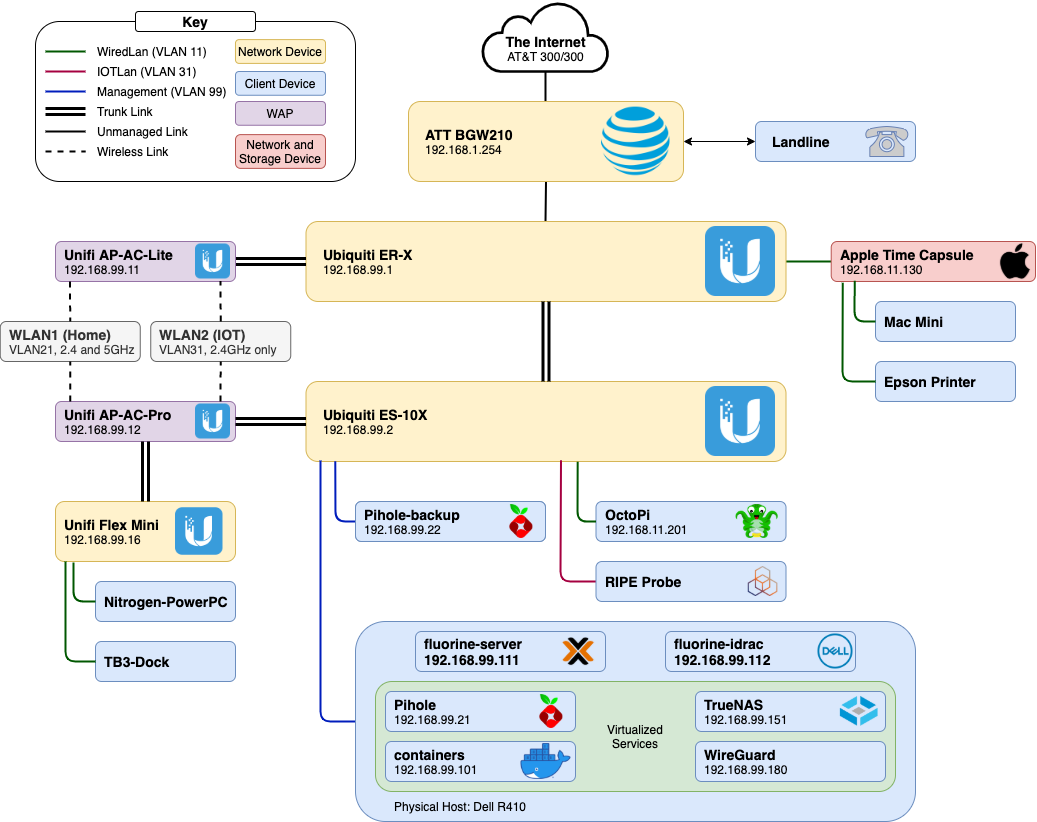
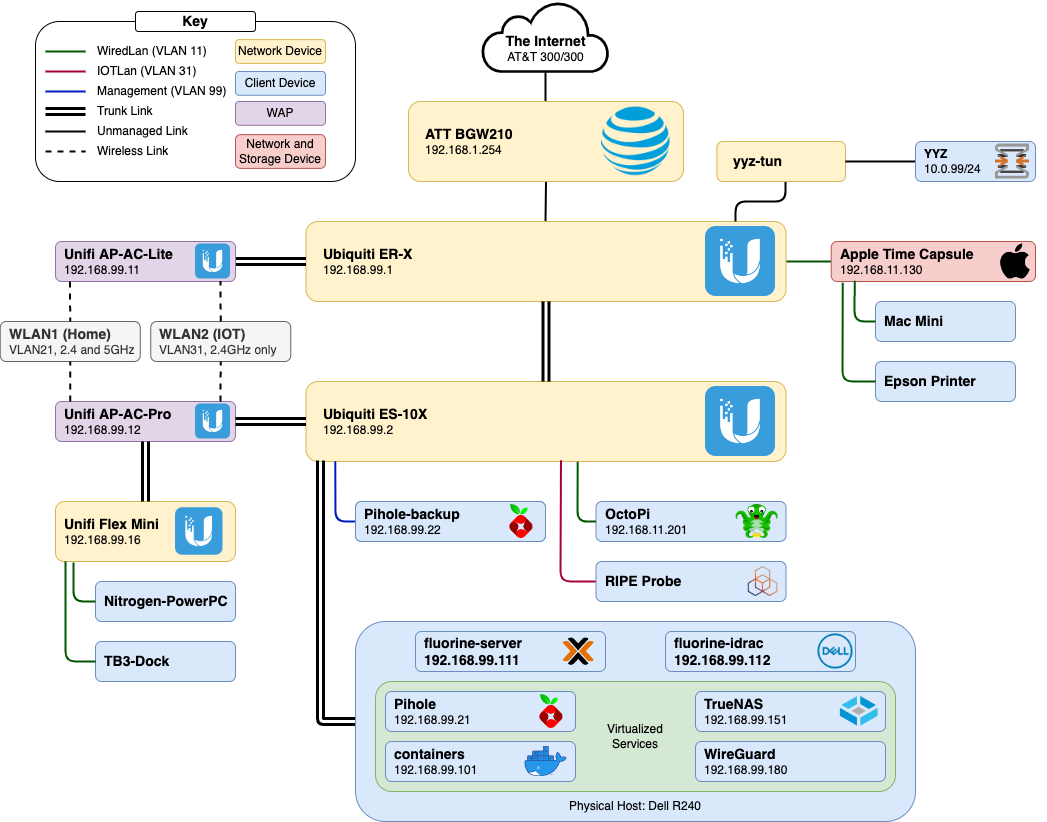
Update homelab page

diff --git a/src/projects/homelab/index.md b/src/projects/homelab/index.md
@@ -4,7 +4,7 @@ slug: projects/homelab
 tagline: There's no place like 127.0.0.1
 secondaryDesc: Learning how the Internet works by building an enterprise-grade server stack, at home
 featuredImage: ./homelab-featured.jpg
-date: 2021-01
+date: 2022-04
 ---
 
 I've always believed that the best way to learn how to do something is by just throwing yourself into it and doing it yourself.
@@ -18,63 +18,72 @@ Not that I've ever done that, of course.
 
 Was the ISP-provided router *probably* enough?
 Yes.
-Is it way more fun to have a fully-fledged wired network with multiple WAPs?
+Is it way more fun to have a fully-fledged segmented wired network with multiple WAPs?
 Oh yeah. 
 
-![Network map](network-diagram.png)
+![Network map](HomeNetworkDiagram.png)
 
 I went with Ubiquiti gear for this network since they offer inexpensive commercial-grade equipment in many shapes and sizes.
-Originally, I was using old Cisco and Dell switches, but after I came to terms with the fact that no, I'll never need 48 PoE ports and full L3 routing, I simplified and condensed to compact routers and switches from Ubiquiti.
+Originally, I was using old Cisco and Dell switches, but after I came to terms with the fact that no, I'll never need 48 PoE ports and full L3 switching, I simplified and condensed to compact routers and switches from Ubiquiti.
 The power bill thanked me for this move; that Cisco switch was guzzling over 100W even at idle. 
 
 While I was refactoring the network, I decided that I really needed a bunch of VLANS.
 I don't actually think that they're necessary here, nor make my network more secure or less busy; I really only added them for the fun of it, to see what I could do with them.
 
-There are four VLANS: management, wired devices, wireless devices, and IoT. 
+There are four VLANs: management, wired devices, wireless devices, and IoT. 
 The IoT VLAN is completely isolated except for a few holes to allow for MQTT and Sonos devices to talk to the server.
 The rest just segregate the network nicely, and for the most part, are transparent to whatever I'm working on. 
 
 [Pi-hole](https://pi-hole.net/) is used as a network-wide adblocker and local DNS service. 
 The ER-X gently suggests via DHCP and firewall rules that devices should use Pi-hole as their main DNS, so most devices connected to the network have some level of ad blocking.
+There is one physical Pi (the OG Model B) as a backup, but I have the main instance virtualised on my main server.
 
 The [Ripe Atlas](https://atlas.ripe.net/) is a tiny little device that RIPE NCC uses to make worldwide network measurements. 
-Besides being an easy way to contribute to the health of Internet, it also acts as a canary, since the NCC will send you an email when the probe, and therefore your internet, goes down.
+Besides being an easy way to contribute to the health of Internet, it also acts as a canary.
+The NCC will send you an email when the probe, and therefore your internet, goes down.
+There's usually not much you can actually do when the internet goes down except from get put on hold by your ISP, but it's still nice to know. 
 You can apply to get one for free on their [site](https://atlas.ripe.net/get-involved/become-a-host/).
 
-## lithium-server.lan ##
+## fluorine-server ##
 
-The pièce de résistance of the entire network, a 2009 Mac Mini that was underpowered even when it was brand new. 
-Perfect for a headless install of Ubuntu Server and a handful of applications, though!
+![Server service map](fluorine-server.png)
 
-![Server service map](server-diagram.png)
+Virtualise all the things!
+Instead of running my services on bare metal, I wanted to play around with VMs and hypervisors a bit, so I installed [Proxmox VE](https://www.proxmox.com/en/proxmox-ve). 
+There are four main VMs: one for PiHole, one for a Wireguard VPN server, one for Docker, and one for TrueNAS. 
+All of them are running Ubuntu 20.04 LTS, except for [TrueNAS](https://www.truenas.com/) which is an OS specifically for managing drives in a NAS. 
 
-[Docker](https://www.docker.com/) (and specifically [docker-compose](https://docs.docker.com/compose/)) manages most of the services, resulting in easy configuration, management, updating, etc.
-All user data is stored off of the container and backed up using [BorgBackup](https://www.borgbackup.org/), meaning that very little actually needs to be backed up, as the containers are disposable.
+The physical host is a Dell PowerEdge R240 that I got for quite a nice price, and can handle my rather light demands with ease. 
+I have an Intel datacenter-grade SSD for VM storage, and a pair of 4TB drives in RAID1 that TrueNAS handles for mass storage. 
 
-The [Unifi Controller](https://hub.docker.com/r/linuxserver/unifi-controller) keeps an eye on the WAPs and allows for quick and easy configuration.
-Unfortunately, the routing and switching gear is (mostly) Edge-line equipment, so this only manages the wireless side. 
-The router and the switch can only be configured via their own web-based GUI or CLI.
+While I have dedicated VMs for a few services, I use [Docker](https://www.docker.com/) (and specifically [docker-compose](https://docs.docker.com/compose/)) for managing most of the smaller services, resulting in easy configuration, management, updating, etc.
+By storing all the configuration and user data outside of the container, I can easily back up and restore all containers via [BorgBackup](https://www.borgbackup.org/).
 
-[HomeAssistant](https://www.home-assistant.io/) is used for a few smarthome-type things.
-The main automation is to have my WiZ smartlights change color temperature though the day using [adaptive-lighting](https://github.com/basnijholt/adaptive-lighting).
-[Mosquitto](https://hub.docker.com/_/eclipse-mosquitto) is my MQTT broker of choice, communicating with a smart switch and my [weatherstation](../weatherstation/).
+All of the sensor data from Home Assistant and my [weatherstation](../weatherstation) gets stored temporarily in a [MariaDB](https://mariadb.org/) instance, but for long term storage, I have a [InfluxDB](https://www.influxdata.com/) container as a single source for all data logging I can think of. 
+To make everything more palatable, I use [Grafana](https://grafana.com/) to visualize the data, along with data from [Telegraf](https://www.influxdata.com/time-series-platform/telegraf/). 
 
-I use [JellyFin](https://jellyfin.org/) for the occasional video streaming need, and [node-sonos-http-api](https://github.com/jishi/node-sonos-http-api) for the backend to my [Sonos remote](https://github.com/eosti/sonos-remote).
+Finally, I am using [Traefik](https://traefik.io/traefik/) to tie it all together though a reverse proxy.
+Everything is secured through [Authentik](https://goauthentik.io/), an all-in-one identity provider. 
 
-Finally, I am using [Traefik](https://traefik.io/traefik/) to tie it all together though a remote proxy.
-Originally I could just remember the port numbers for each service, but that gets hard once you have more than a few services all at once.
-Many hours of pain and suffering later, each frequently used service has a sub-domain that is much easier to use.
-Theoretically, Traefik is essentially plug-and-play, but HomeAssistant and Unifi both have some networking and encryption requirements that confuse Traefik, so it took a while to get all sorted out.
+Initial setup and large-scale management is provided by [Ansible](https://www.ansible.com/) and a number of playbooks that I've developed in the process of bringing this all up. 
+Why do things manually when you can spend three times as long to automate it?
 
-## The latest and the Greatest ##
+## Networking, Part 2 ##
 
-Well, not really. 
+But wait, there's more!
 
-I recently got my hands on a few G11 PowerEdge servers and have been setting up a development environment so that I don't have to test everything on live. 
-They're old (~2010) and all together draw 750W *at idle* but fantastic for learning virtualization and other server infrastructure. 
+As I bounce around the continent during university, I want a reliable connection back to my main server. 
+Wherever else I reside, I use a tiny little Dell 7050 Micro as a portable server. 
+Once again running Proxmox, it offers similar services as fluorine-server, such as Home Assistant and PiHole. 
 
-It's all still a huge work in process, but the current state is a 3-host [proxmox](https://www.proxmox.com/en/) cluster with various VMs running in High Availability mode. 
-I've also been toying with [TrueNAS](https://www.truenas.com/) and ZFS, and working with the Cisco CLI to ensure fast, reliable networking. 
-Finally, nearly all actions that I complete manually I make sure to go back and automate with [Ansible](https://www.ansible.com/) so that I can be properly lazy. 
+However, it also has a VM running [OPNSense](https://opnsense.org/), a fully-featured firewall and routing service. 
+Using WireGuard, I create a VPN tunnel between sites, so I can access fluorine-server and all other devices as if they were right next to me on the other side of the continent. 
+I wrote up a guide on how to do this [here](opnsense-wireguard-tun), since it involved some more complex routing and configuration than I was expecting.
 
-Having a homelab is great for tinkering around with networking and server management, and it's been fantastic for learning about everything that goes into our Internet. 
+This means that I can upload Home Assistant data back to the single InfluxDB instance on fluorine-server, but still keep all essential services local in case, say, [Rogers' entire network goes down](https://blog.cloudflare.com/cloudflares-view-of-the-rogers-communications-outage-in-canada/).
+I can also use this VPN tunnel to access my desktop computer while I'm out of the house, letting me use the power of a desktop computer for CAD or computation tasks while remote on a laptop. 
+
+I can safely say that many aspects of my homelab are way overkill, and I'm making far more work for myself than it's worth. 
+There are many services (VPN, Home Assistant, etc) that have potentially much simpler solutions, but they might be cloud-based, closed-source, or just plain worse than the self-hosted alternative. 
+Besides, I've learned so much about how servers and the internet work, as well as picking up many tips and tricks along the way that I've been able to apply outside of a homelab environment. 
+To me, that alone is worth it, and the useful services that come along with that are just a nice bonus.

diff --git a/src/projects/homelab/opnsense-wireguard-tun.md b/src/projects/homelab/opnsense-wireguard-tun.md
@@ -1,0 +1,11 @@
+---
+title: OPNSense + WireGuard Tunneling
+slug: projects/homelab/opnsense-wireguard-tun
+date: 2022-07
+---
+
+# TODO! #
+
+# Background #
+
+# OPNSense Configuration #
